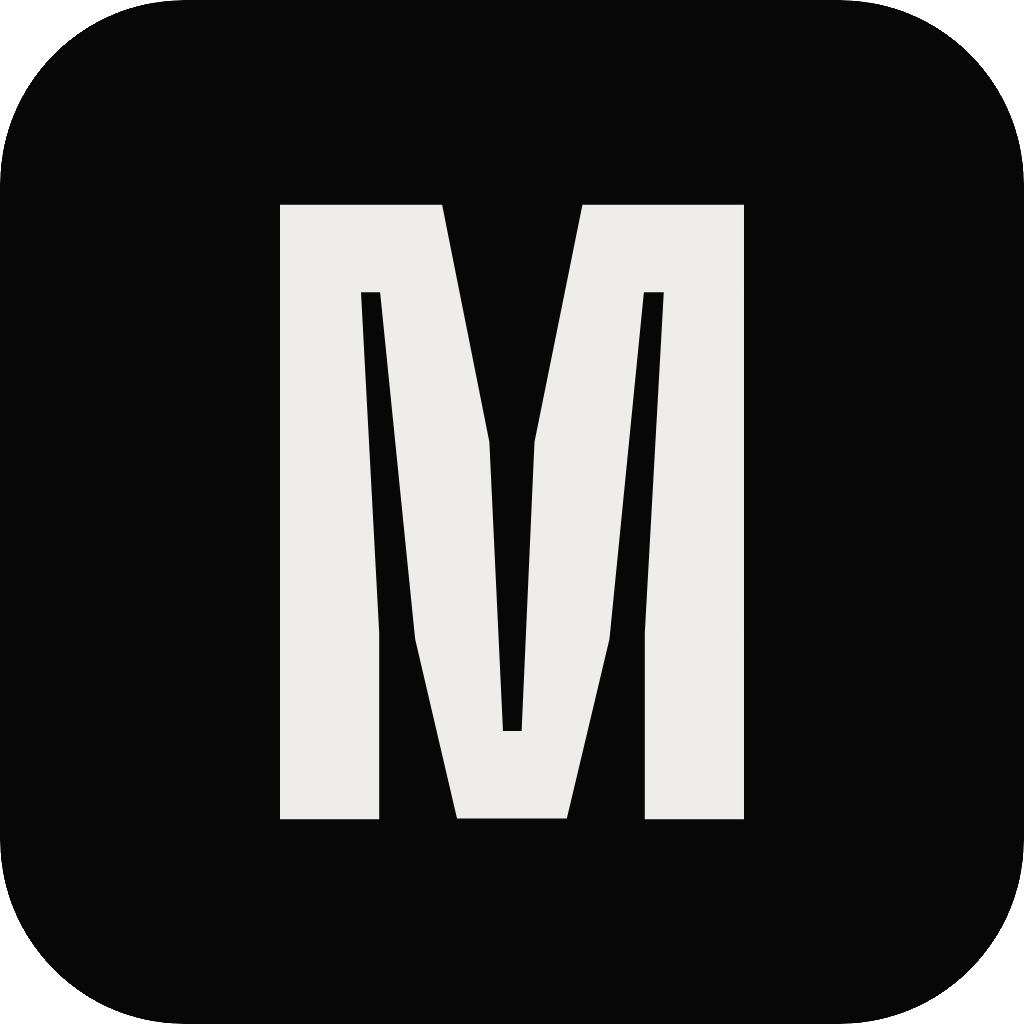
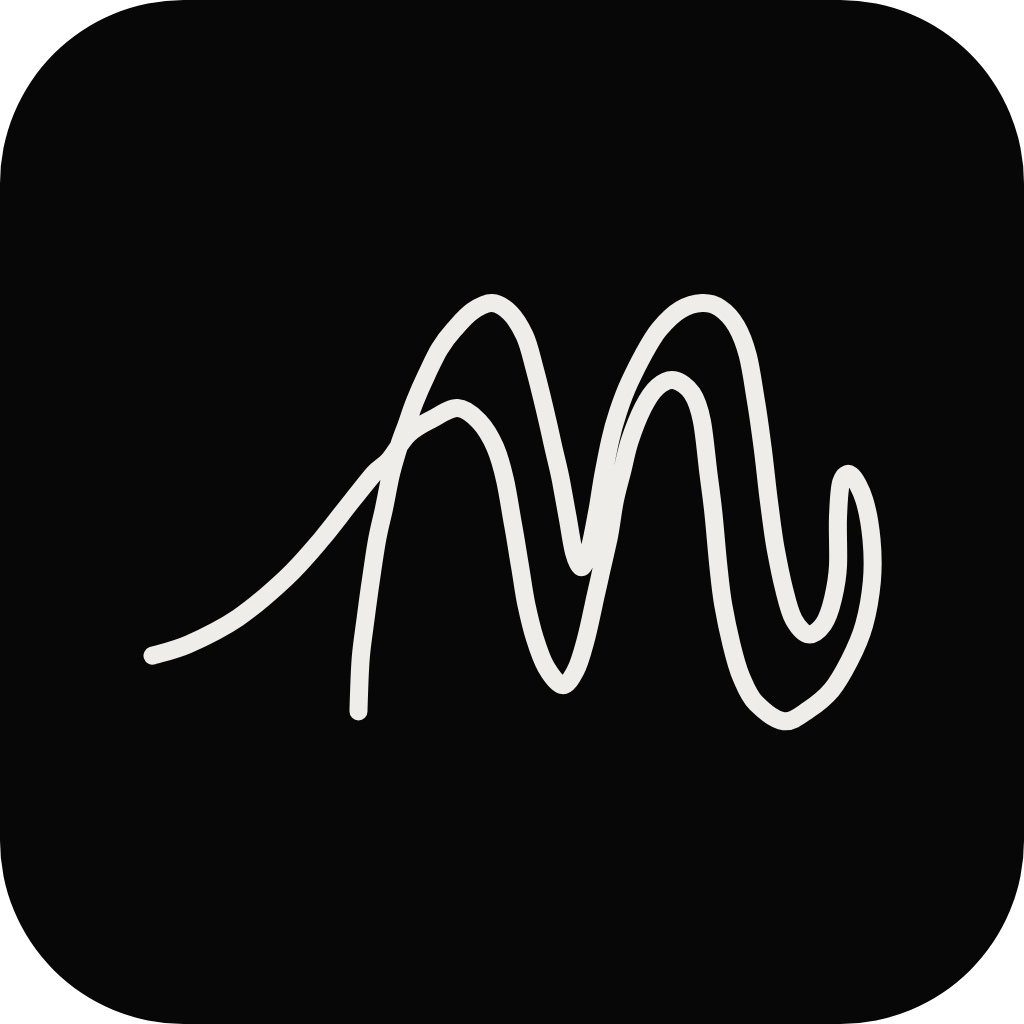
Design: one-line M mark
Replace the Big Shoulders M with a hand-drawn mark: an M in one unbroken
pen line that starts as a rising sound wave, runs through the inner arches
to a hook, and doubles back over the outer arches. The path is traced from
the sketch and drawn as a stroke, heavier at icon sizes so the doubled
lines survive. Favicon and press-kit tiles regenerated.

Changed region(s): [[0.125, 0.1875, 0.875, 0.8125]]

diff --git a/app/src/lib/brand-geometry.ts b/app/src/lib/brand-geometry.ts
@@ -1,29 +1,35 @@
 /**
- * The Mirli mark: a capital M cut from Big Shoulders Display at weight 800,
- * the same face as the wordmark and page titles. The outline is the font's
- * own glyph, flattened to a path so the favicon and press-kit files need no
- * webfont to render it (regenerate with scripts/gen-brand-marks.ts if the
- * weight changes).
+ * The Mirli mark: an M drawn in one unbroken pen line. It starts as a rising
+ * sound wave on the left, runs through the M's inner arches to a hook on the
+ * right, then doubles back over the outer arches and ends on the first stem.
+ * Traced from the hand-drawn sketch, so the favicon and press-kit files need
+ * no font or image to render it (regenerate with scripts/gen-brand-marks.ts).
  *
- * Coordinates are font units (2000 per em) with the origin at the glyph's
- * top-left: the M is `M_WIDTH` wide and `M_HEIGHT` (cap height) tall.
+ * It is a stroke, not a fill: `M_PATH` is the pen's centre line in a box
+ * `M_WIDTH` × `M_HEIGHT` units with the origin at its top-left. The weight
+ * scales against size: about 5 units reads as the sketch at large sizes, and
+ * small icons need about 14 so the doubled lines don't vanish.
  */
 
 export const M_PATH =
-  "M0 1600V0H422.2L545.2 618L580.7 1370.4H629.2L662.7 618L787.6 0H1208.3V1600H950V1114.5L999.4 227.9H947.6L858 1131L746.9 1598.3H461L351.9 1131L260.7 227.9H210.9L258.3 1114.5V1600Z";
-export const M_WIDTH = 1208.3;
-export const M_HEIGHT = 1600;
+  "M0 107.5C1.8 106.9 6.7 105.9 11 104C15.3 102.1 21.1 99.3 26 96C30.9 92.7 36.2 88 40.5 84C44.8 80 48.1 76 51.5 72C54.9 68 58.3 63.3 61 60C63.7 56.7 65.7 54 67.5 52C69.3 50 70.2 50 72 48C73.8 46 75.8 42.1 78 40C80.2 37.9 82.5 36.8 85 35.5C87.5 34.2 90.6 31.9 93 32C95.4 32.1 97.6 34 99.5 36C101.4 38 103.2 41 104.5 44C105.8 47 106.6 50 107.5 54C108.4 58 109.2 63.7 110 68C110.8 72.3 111.3 76 112 80C112.7 84 113.2 88.3 114 92C114.8 95.7 115.5 98.8 116.5 102C117.5 105.2 118.6 108.6 120 111C121.4 113.4 123.5 116.3 125 116.5C126.5 116.7 127.8 114.2 129 112C130.2 109.8 131.1 106.3 132 103C132.9 99.7 133.8 95.3 134.5 92C135.2 88.7 135.8 86.3 136.5 83C137.2 79.7 138.2 75.8 139 72C139.8 68.2 140.3 63.3 141 60C141.7 56.7 142.2 55 143 52C143.8 49 144.4 45.3 145.5 42C146.6 38.7 148.1 34.8 149.5 32C150.9 29.2 152.4 26.9 154 25.5C155.6 24.1 157.2 23.2 159 23.5C160.8 23.8 163.1 25.4 164.5 27.5C165.9 29.6 166.7 31.9 167.5 36C168.3 40.1 168.9 47.3 169.5 52C170.1 56.7 170.5 59.3 171 64C171.5 68.7 172 75.3 172.5 80C173 84.7 173.3 88 174 92C174.7 96 175.6 100.3 176.5 104C177.4 107.7 178.2 111 179.5 114C180.8 117 181.8 119.8 184 122C186.2 124.2 189.8 127.2 192.5 127.5C195.2 127.8 197.6 125.6 200 124C202.4 122.4 204.9 120.5 207 118C209.1 115.5 210.8 112.3 212.5 109C214.2 105.7 215.9 102 217 98C218.1 94 218.9 89.3 219.3 85C219.7 80.7 219.6 76.2 219.2 72C218.8 67.8 218 63.2 217 60C216 56.8 214.2 53.4 213 52.5C211.8 51.6 210.7 52.4 210 54.5C209.3 56.6 209.2 60.8 209 65C208.8 69.2 209.2 75.8 209 80C208.8 84.2 208.2 87 207.5 90C206.8 93 205.8 96.2 204.5 98C203.2 99.8 201.5 101.2 200 101C198.5 100.8 196.8 98.8 195.5 96.5C194.2 94.2 193.4 90.6 192.5 87C191.6 83.4 190.8 79.3 190 75C189.2 70.7 188.7 66.2 188 61C187.3 55.8 186.7 49.2 186 44C185.3 38.8 184.8 34.7 184 30C183.2 25.3 182.5 19.8 181.5 16C180.5 12.2 179.4 9.4 178 7C176.6 4.6 174.8 2.7 173 1.5C171.2 0.3 169.5 -0.1 167.5 0C165.5 0.1 163.2 0.7 161 2C158.8 3.3 156.4 5.7 154.5 8C152.6 10.3 151 13.3 149.5 16C148 18.7 146.8 21.2 145.5 24C144.2 26.8 143 30 142 33C141 36 140.2 38.8 139.5 42C138.8 45.2 138.2 48.3 137.5 52C136.8 55.7 136.2 60.3 135.5 64C134.8 67.7 134.2 71.2 133.5 74C132.8 76.8 131.8 80.2 131 80.5C130.2 80.8 129.2 78.6 128.5 76C127.8 73.4 127.2 68.7 126.5 65C125.8 61.3 125.2 57.7 124.5 54C123.8 50.3 122.8 46.7 122 43C121.2 39.3 120.4 35.8 119.5 32C118.6 28.2 117.5 23.7 116.5 20C115.5 16.3 114.8 12.8 113.5 10C112.2 7.2 110.7 4.7 109 3C107.3 1.3 105.4 0.1 103.5 0C101.6 -0.1 99.4 1.2 97.5 2.5C95.6 3.8 93.7 6.1 92 8C90.3 9.9 88.9 11.7 87.5 14C86.1 16.3 84.8 19.3 83.5 22C82.2 24.7 81 27.5 80 30C79 32.5 78.3 34.7 77.5 37C76.7 39.3 75.8 41.3 75 44C74.2 46.7 73.2 49.8 72.5 53C71.8 56.2 71.2 59.8 70.5 63C69.8 66.2 69.2 68.3 68.5 72C67.8 75.7 67.1 81 66.5 85C65.9 89 65.5 92.2 65 96C64.5 99.8 63.8 104.3 63.5 108C63.2 111.7 63.1 115.2 63 118C62.9 120.8 62.8 123.4 62.8 124.5";
+export const M_WIDTH = 219.3;
+export const M_HEIGHT = 127.5;
+
+/** Stroke weights, in path units. */
+export const MARK_WEIGHT = { large: 5.5, small: 14 } as const;
 
 /**
- * A square viewBox with the M centred in it. `inset` is the share of the
- * square left empty above and below the letter.
+ * A square viewBox with the M centred in it, padded for the stroke. `inset`
+ * is the share of the square left empty either side of the letter (the M is
+ * wider than tall, so the width sets the size).
  */
-export function markViewBox(inset = 0): { x: number; y: number; size: number } {
-  const size = M_HEIGHT / (1 - inset * 2);
+export function markViewBox(inset = 0, weight: number = MARK_WEIGHT.small): { x: number; y: number; size: number } {
+  const size = (M_WIDTH + weight) / (1 - inset * 2);
   return { x: (M_WIDTH - size) / 2, y: (M_HEIGHT - size) / 2, size };
 }
 
 /** The M as standalone SVG markup, for the static files. */
-export function markSvgMarkup(ink: string): string {
-  return `<path d="${M_PATH}" fill="${ink}"/>`;
+export function markSvgMarkup(ink: string, weight: number = MARK_WEIGHT.small): string {
+  return `<path d="${M_PATH}" fill="none" stroke="${ink}" stroke-width="${weight}" stroke-linecap="round" stroke-linejoin="round"/>`;
 }

diff --git a/scripts/gen-brand-marks.ts b/scripts/gen-brand-marks.ts
@@ -1,6 +1,6 @@
 #!/usr/bin/env -S npx tsx
 /**
- * Writes the static copies of the Mirli mark (the display-face M) from
+ * Writes the static copies of the Mirli mark (the one-line M) from
  * app/src/lib/brand-geometry.ts:
  *
  *   app/public/favicon.svg                 paper M on a black tile (both builds)
@@ -18,7 +18,7 @@ import { writeFileSync } from "node:fs";
 import path from "node:path";
 import { fileURLToPath } from "node:url";
 
-import { markSvgMarkup, markViewBox } from "../app/src/lib/brand-geometry";
+import { MARK_WEIGHT, markSvgMarkup, markViewBox } from "../app/src/lib/brand-geometry";
 
 const root = path.resolve(path.dirname(fileURLToPath(import.meta.url)), "..");
 
@@ -26,23 +26,29 @@ const INK = "#070707";
 const PAPER = "#eeede9";
 
 /** A rounded tile with the M centred and inset so it breathes. */
-function tile(opts: { ink: string; ground: string; inset: number; px?: number }): string {
-  const box = markViewBox(opts.inset);
+function tile(opts: { ink: string; ground: string; inset: number; weight: number; px?: number }): string {
+  const box = markViewBox(opts.inset, opts.weight);
   const [x, y, size] = [box.x, box.y, box.size].map((n) => Math.round(n * 10) / 10);
   const px = opts.px ? ` width="${opts.px}" height="${opts.px}"` : "";
   return (
     `<svg xmlns="http://www.w3.org/2000/svg" viewBox="${x} ${y} ${size} ${size}"${px}>` +
     `<rect x="${x}" y="${y}" width="${size}" height="${size}" rx="${Math.round(size * 0.18)}" fill="${opts.ground}"/>` +
-    markSvgMarkup(opts.ink) +
+    markSvgMarkup(opts.ink, opts.weight) +
     `</svg>\n`
   );
 }
 
 const files: Record<string, string> = {
-  // Tighter in the favicon: at 16 px every pixel of letter counts.
-  "app/public/favicon.svg": tile({ ink: PAPER, ground: INK, inset: 0.14 }),
-  "site/public/press/mirli-mark.svg": tile({ ink: PAPER, ground: INK, inset: 0.2, px: 1024 }),
-  "site/public/press/mirli-mark-light.svg": tile({ ink: INK, ground: PAPER, inset: 0.2, px: 1024 }),
+  // Tight and heavy in the favicon: at 16 px every pixel of line counts.
+  "app/public/favicon.svg": tile({ ink: PAPER, ground: INK, inset: 0.06, weight: MARK_WEIGHT.small }),
+  "site/public/press/mirli-mark.svg": tile({ ink: PAPER, ground: INK, inset: 0.14, weight: MARK_WEIGHT.large, px: 1024 }),
+  "site/public/press/mirli-mark-light.svg": tile({
+    ink: INK,
+    ground: PAPER,
+    inset: 0.14,
+    weight: MARK_WEIGHT.large,
+    px: 1024,
+  }),
 };
 
 for (const [rel, svg] of Object.entries(files)) {

diff --git a/app/src/components/brand-mark.tsx b/app/src/components/brand-mark.tsx
@@ -1,28 +1,34 @@
 /**
- * The Mirli mark: a single capital M in the display face, drawn as a path
- * (`lib/brand-geometry.ts`, shared with the favicon and press-kit files).
- * One colour, `currentColor`, so it sits on any tile the way a Lucide icon
- * does. `inset` pads the square around the letter.
+ * The Mirli mark: the one-line M, drawn as a stroke (`lib/brand-geometry.ts`,
+ * shared with the favicon and press-kit files). One colour, `currentColor`,
+ * so it sits on any tile the way a Lucide icon does. `inset` pads the square
+ * around the letter; `weight` is the pen width (heavier for small icons).
  */
 
-import { M_PATH, markViewBox } from "@/lib/brand-geometry";
+import { MARK_WEIGHT, M_PATH, markViewBox } from "@/lib/brand-geometry";
 import { cn } from "@/lib/utils";
 
 export function BrandMark({
   inset = 0,
+  weight = MARK_WEIGHT.small,
   className,
   title,
 }: {
   inset?: number;
+  weight?: number;
   className?: string;
   /** Omit for a decorative mark next to the wordmark. */
   title?: string;
 }) {
-  const box = markViewBox(inset);
+  const box = markViewBox(inset, weight);
   return (
     <svg
       viewBox={`${box.x} ${box.y} ${box.size} ${box.size}`}
-      fill="currentColor"
+      fill="none"
+      stroke="currentColor"
+      strokeWidth={weight}
+      strokeLinecap="round"
+      strokeLinejoin="round"
       className={className}
       role={title ? "img" : undefined}
       aria-hidden={title ? undefined : true}

diff --git a/site/src/routes/press.tsx b/site/src/routes/press.tsx
@@ -577,7 +577,7 @@ export function PressPage() {
         {/* ----------------------------------------------------------- brand */}
         <Section id="brand" title="Mark, colours and type">
           <p className="text-muted-foreground mt-3 max-w-2xl leading-relaxed">
-            The mark is a single M in Big Shoulders Display, on a rounded tile.
+            The mark is an M drawn in one pen line that starts as a sound wave, on a rounded tile.
             Use whichever tile suits your background, and please don't recolour or redraw it.
           </p>
           <ul className="mt-6 grid gap-5 sm:grid-cols-2">

diff --git a/CHANGELOG.md b/CHANGELOG.md
@@ -7,7 +7,7 @@ to follow [Semantic Versioning](https://semver.org/).
 ## [Unreleased]
 
 ### Changed
-- A new look for the app and the site: black and white, with a single condensed M for the mark and app icon, Big Shoulders Display for the wordmark and page titles, square-cut corners and a film grain on the site. Status colours stay, drained down, with oxblood for errors.
+- A new look for the app and the site: black and white, with a one-line M for the mark and app icon (a sound wave that turns into the letter), Big Shoulders Display for the wordmark and page titles, square-cut corners and a film grain on the site. Status colours stay, drained down, with oxblood for errors.
 - The site's download page has a new design: a full-width hero, the Soundbox film in a frame that flattens as you scroll, live GitHub numbers and a card per installer.
 
 ### Fixed
